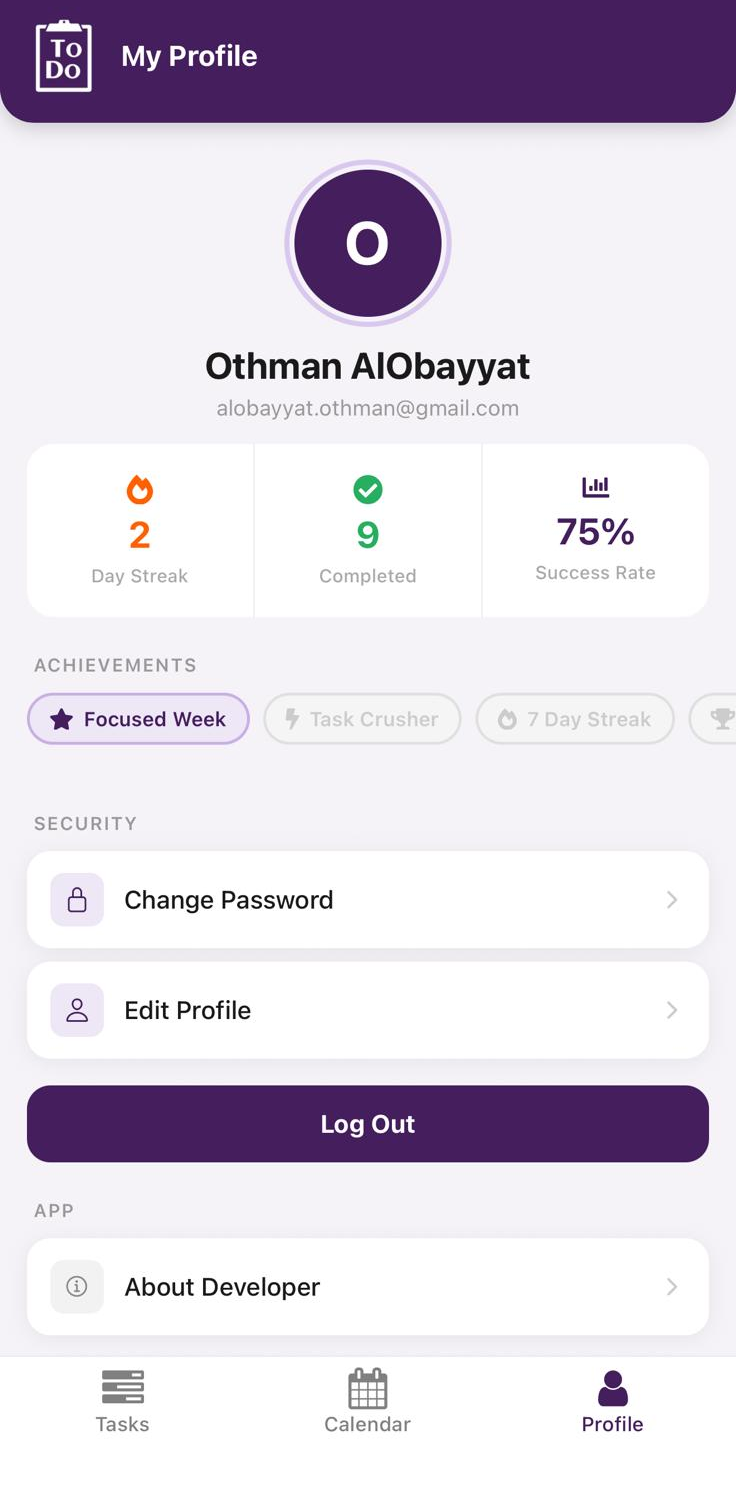
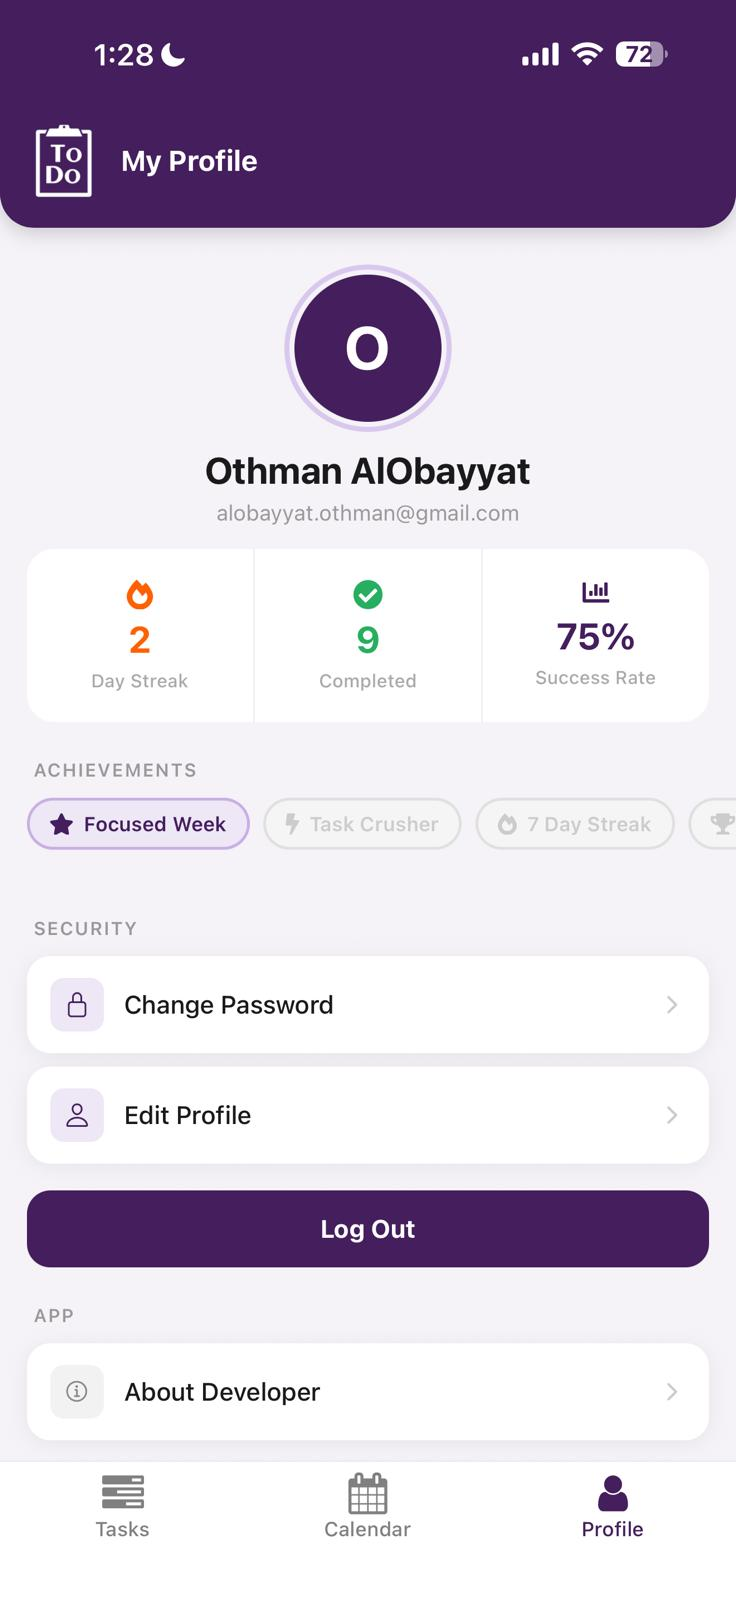
ToDo Page V2

diff --git a/app/todo/page.tsx b/app/todo/page.tsx
@@ -106,25 +106,6 @@ function PhoneMockup({
     <div
       className={`overflow-hidden rounded-[30px] border border-zinc-700/50 bg-zinc-900 shadow-[0_24px_60px_rgba(0,0,0,0.65)] ${className}`}
     >
-      {/* Status bar chrome */}
-      <div className="flex items-center justify-between bg-zinc-950 px-4 py-2.5">
-        <span className="text-[9px] font-semibold text-zinc-500">9:41</span>
-        <div className="flex items-center gap-1.5">
-          <div className="flex items-end gap-0.5">
-            {[3, 4, 5, 4].map((h, i) => (
-              <div
-                key={i}
-                className="w-[2px] rounded-sm bg-zinc-600"
-                style={{ height: `${h}px` }}
-              />
-            ))}
-          </div>
-          <div className="flex h-2.5 w-4 items-center rounded-sm border border-zinc-600 px-px">
-            <div className="h-1.5 w-2.5 rounded-sm bg-zinc-500" />
-          </div>
-        </div>
-      </div>
-
       {/* Screenshot — fills width, shows top portion */}
       <div className="relative overflow-hidden" style={{ height: imageHeight }}>
         <Image
